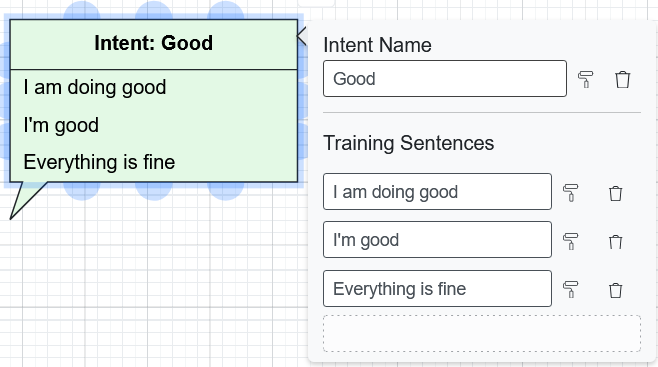
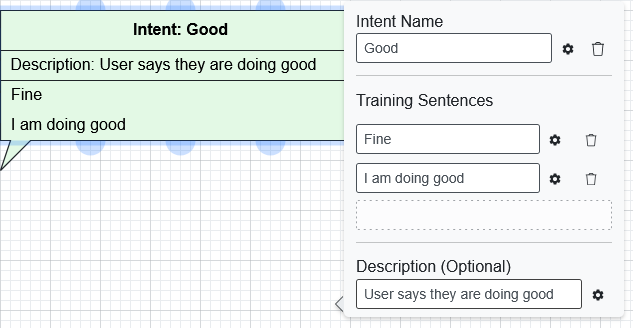
Add RAG reply option and update help docs
Introduce a Retrieval-Augmented Generation (RAG) fallback option in the agent state UI: rename "Bot Fallback Action" to "Agent Fallback Action", add a "RAG reply" radio option that creates a default RAG fallback body and removes incompatible fallback bodies when selected. Update the help modal to document the new RAG reply type and add an "Agent configuration" section describing intent-recognition and configuration choices. Also add/update related help images (new help-agent-configuration.png and updated help-agent-body.png/help-agent-intent.png).

diff --git a/packages/webapp/src/main/components/modals/help-modeling-modal/help-modeling-modal.tsx b/packages/webapp/src/main/components/modals/help-modeling-modal/help-modeling-modal.tsx
@@ -317,11 +317,12 @@ export const HelpModelingModal: React.FC<ModalContentProps> = ({ close }) => {
                 <td>
                   To edit the body of an agent state, double-click on the agent state element. This will open a popup where you can define the body of the agent state.
                   In the agent diagram, you can define three types of actions: 
-                    <ul>
-                  <li>Text reply: simple reply messages which cause the agent to send a predefined text message to the user</li>
-                  <li> LLM reply: will forward the user message to a Large Language Model and let it take care of responding and </li>
-                <li> Python code will allow users to take care of defining the function to be executed when the state is reached using a python syntax</li>
-                </ul>
+                      <ul>
+                    <li>Text reply: simple reply messages which cause the agent to send a predefined text message to the user</li>
+                    <li> LLM reply: will forward the user message to a Large Language Model and let it take care of responding </li>
+                    <li> RAG reply: will forward the user's message to a Retrieval-Augmented Generation (RAG) system and let it take care of responding based on the chosen RAG database</li>
+                  <li> Python code will allow users to take care of defining the function to be executed when the state is reached using a python syntax</li>
+                  </ul>
                 </td>
               
                 <td>
@@ -366,10 +367,22 @@ export const HelpModelingModal: React.FC<ModalContentProps> = ({ close }) => {
               <tr>
                 <th>Defining Intents</th>
                 <td>
-                  To define the intents your agent is supposed to recognize, drag and drop the intent element from the left panel onto the canvas. You can then double-click on the intent element to open a popup where you can define the intent name and its training sentences. The training sentences are the phrases that users might say to trigger this intent.
+                  To define the intents your agent is supposed to recognize, drag and drop the intent element from the left panel onto the canvas. You can then double-click on the intent element to open a popup where you can define the intent name and its training sentences. The training sentences are the phrases that users might say to trigger this intent. The desription is used to describe the purpose or idea behind the intent.
                 </td>
                 <td>
                   <img width="400" src="/images/help/agent/help-agent-intent.png" alt="Image not found" />
+                </td>
+              </tr>
+            <tr>
+                <th>Agent configuration</th>
+                
+                 To configure the agent's settings, such as the underlying LLM model or RAG database, you can select the agent configuration page in the sidebar. Here, you can select which technologies and techniques the agent should use:
+                    <ul>
+                  <li>Classical intent-recognition: a local tensorflow model will be trained using the defined intents</li>
+                  <li> LLM-based intent-recognition: an (external or internal) LLM will be used to recognize intents </li>
+                </ul>
+                <td>
+                  <img width="400" src="/images/help/agent/help-agent-configuration.png" alt="Image not found" />
                 </td>
               </tr>
 

diff --git a/packages/editor/src/main/packages/agent-state-diagram/agent-state/agent-state-update.tsx b/packages/editor/src/main/packages/agent-state-diagram/agent-state/agent-state-update.tsx
@@ -442,7 +442,7 @@ class StateUpdate extends Component<Props, State> {
 
         </section>
         <section>
-          Bot Fallback Action
+          Agent Fallback Action
           <div>
             <label>
               <input
@@ -485,6 +485,28 @@ class StateUpdate extends Component<Props, State> {
                 }}
               />
               LLM automatic reply
+            </label>
+            <label>
+              <input
+                type="radio"
+                name="actionType"
+                value="rag"
+                defaultChecked={this.fallbackBodyReplyType === "rag"}
+                onChange={() => {
+                  this.fallbackBodyReplyType = "rag";
+                  fallbackBodies.forEach((fallbackBody) => {
+                    if (fallbackBody.replyType !== "rag") {
+                      this.delete(fallbackBody.id)();
+                    }
+                  });
+                  if (!fallbackBodies.some((body) => body.replyType === "rag")) {
+                    const defaultName = this.getRagDisplayName('');
+                    this.create(AgentStateFallbackBody, "rag", { ragDatabaseName: '', name: defaultName })(defaultName);
+                  }
+                  this.forceUpdate();
+                }}
+              />
+              RAG reply
             </label>
             <label>
               <input
